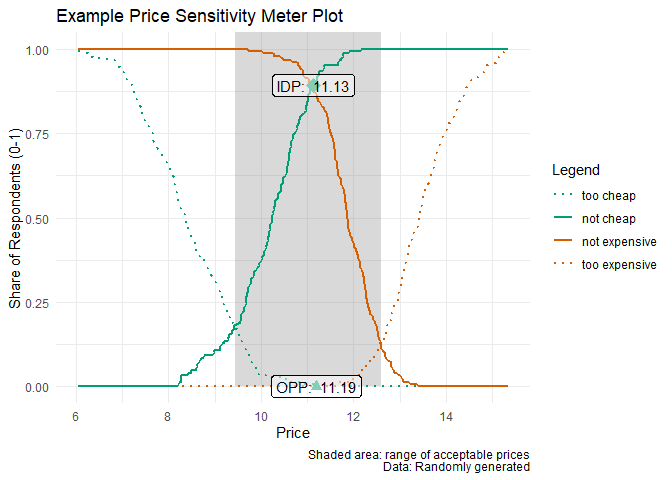
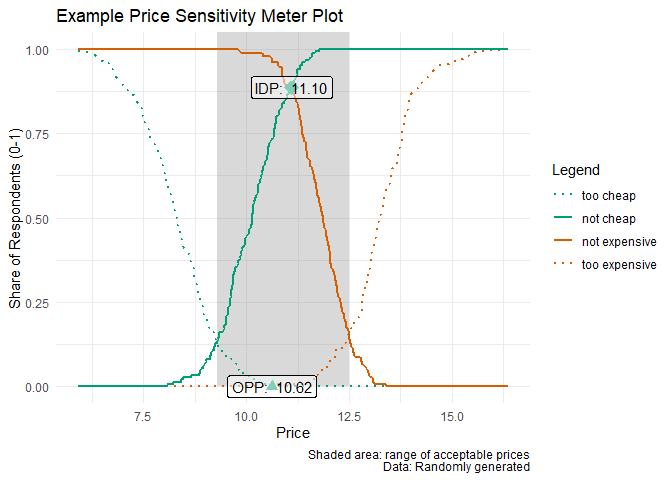
finalizing v1.2.2
fixing lazydata

diff --git a/README.md b/README.md
@@ -4,7 +4,7 @@
 [![CRAN\_Status\_Badge](https://www.r-pkg.org/badges/version/pricesensitivitymeter)](https://cran.r-project.org/package=pricesensitivitymeter)
 [![CRAN\_Download\_Badge](https://cranlogs.r-pkg.org/badges/grand-total/pricesensitivitymeter)](https://cran.r-project.org/package=pricesensitivitymeter)
 [![R-CMD-check](https://github.com/max-alletsee/pricesensitivitymeter/workflows/R-CMD-check/badge.svg)](https://github.com/max-alletsee/pricesensitivitymeter/actions)
-[![codecov](https://codecov.io/gh/max-alletsee/pricesensitivitymeter/branch/master/graph/badge.svg?token=W1JHNAMMEB)](https://codecov.io/gh/max-alletsee/pricesensitivitymeter)
+[![codecov](https://codecov.io/gh/max-alletsee/pricesensitivitymeter/branch/master/graph/badge.svg?token=W1JHNAMMEB)](https://app.codecov.io/gh/max-alletsee/pricesensitivitymeter)
 
 ## Overview
 
@@ -56,9 +56,9 @@ output_psm_demo <- psm_analysis(
 summary(output_psm_demo)
 #> Van Westendorp Price Sensitivity Meter Analysis
 #> 
-#> Accepted Price Range: 9.45 - 12.6 
-#> Indifference Price Point: 11.13 
-#> Optimal Price Point: 11.19 
+#> Accepted Price Range: 9.28 - 12.5 
+#> Indifference Price Point: 11.1 
+#> Optimal Price Point: 10.62 
 #> 
 #> ---
 #> 150 cases with individual price preferences were analyzed (unweighted data).

diff --git a/NEWS.md b/NEWS.md
@@ -1,7 +1,8 @@
-# pricesensitivitymeter, v1.2.2 (release date: 2021-MM-DD)
+# pricesensitivitymeter, v1.2.2 (release date: 2021-10-19)
 
 - psm_plot(): flexible color for Indifference Price Point and Optimal Price Point
 - psm_plot(): enforcing digits for Indifference Price Point and Optimal Price Point labels
+- change in DESCRIPTION to address a CRAN note (no need for lazy loading of data)
 
 # pricesensitivitymeter, v1.2.1 (release date: 2021-03-21)
 
